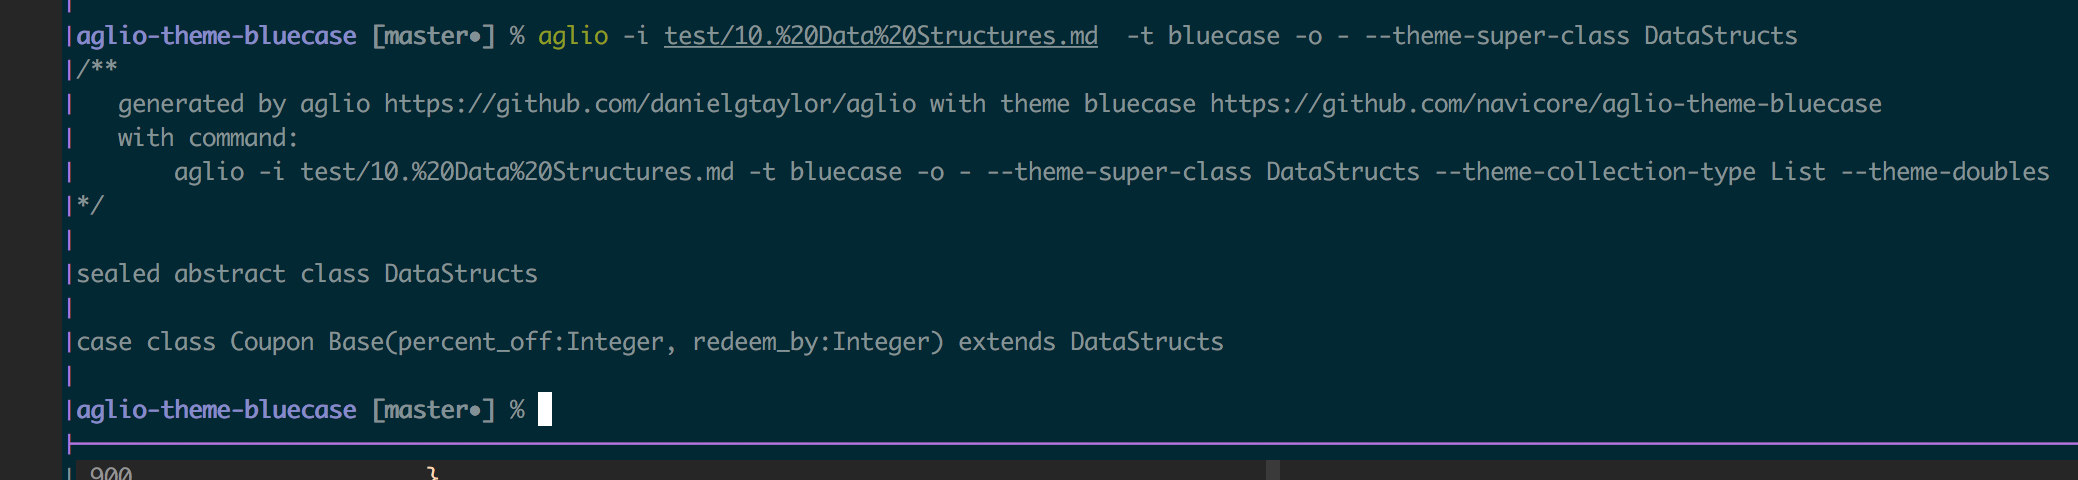
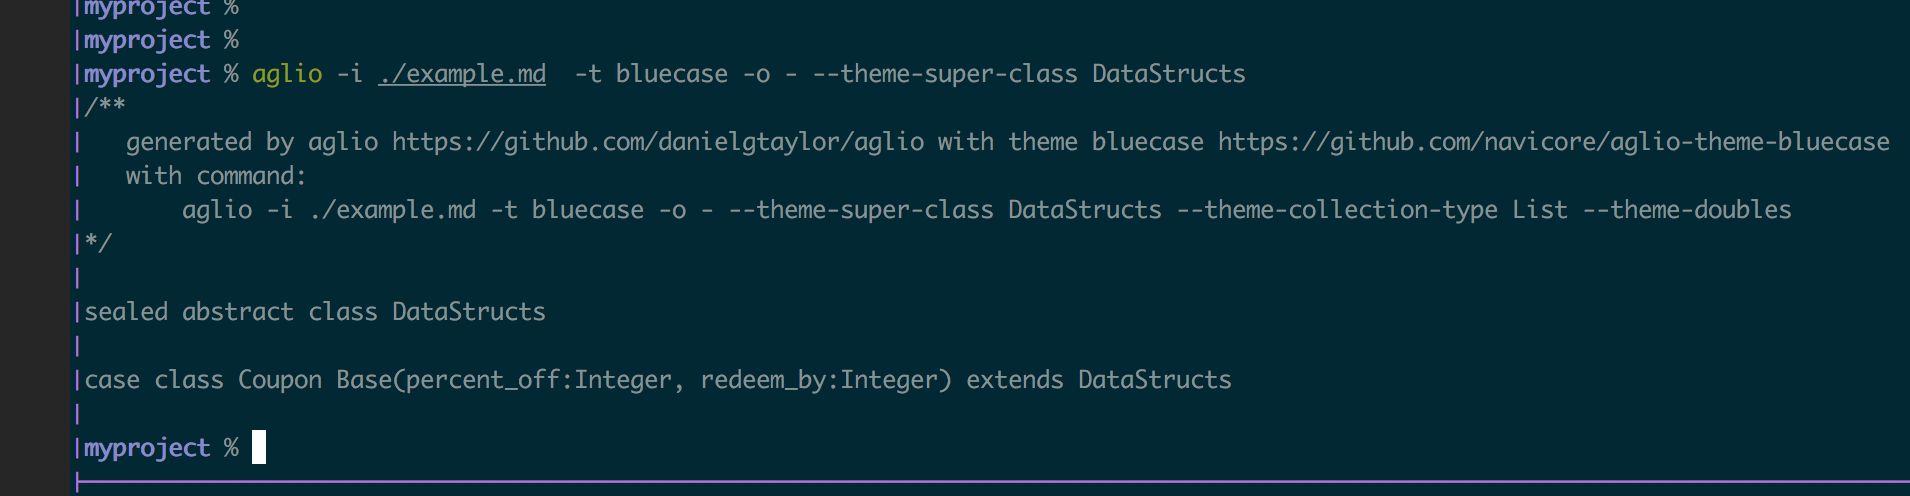
screen

Changed region(s): [[0.0309, 0.0, 1.0, 1.0], [0.0927, 0.4062, 0.9576, 0.4375]]

diff --git a/README.md b/README.md
@@ -12,6 +12,8 @@ An [Aglio Blueprint Renderer](https://github.com/danielgtaylor/aglio) theme to g
 3. `npm install -g .`
 4. `npm install -g aglio`
 
+![example image](screen.png)
+
 ## USE
 
 * `aglio -i tmp/mystructs.apib -t bluecase -o -`
